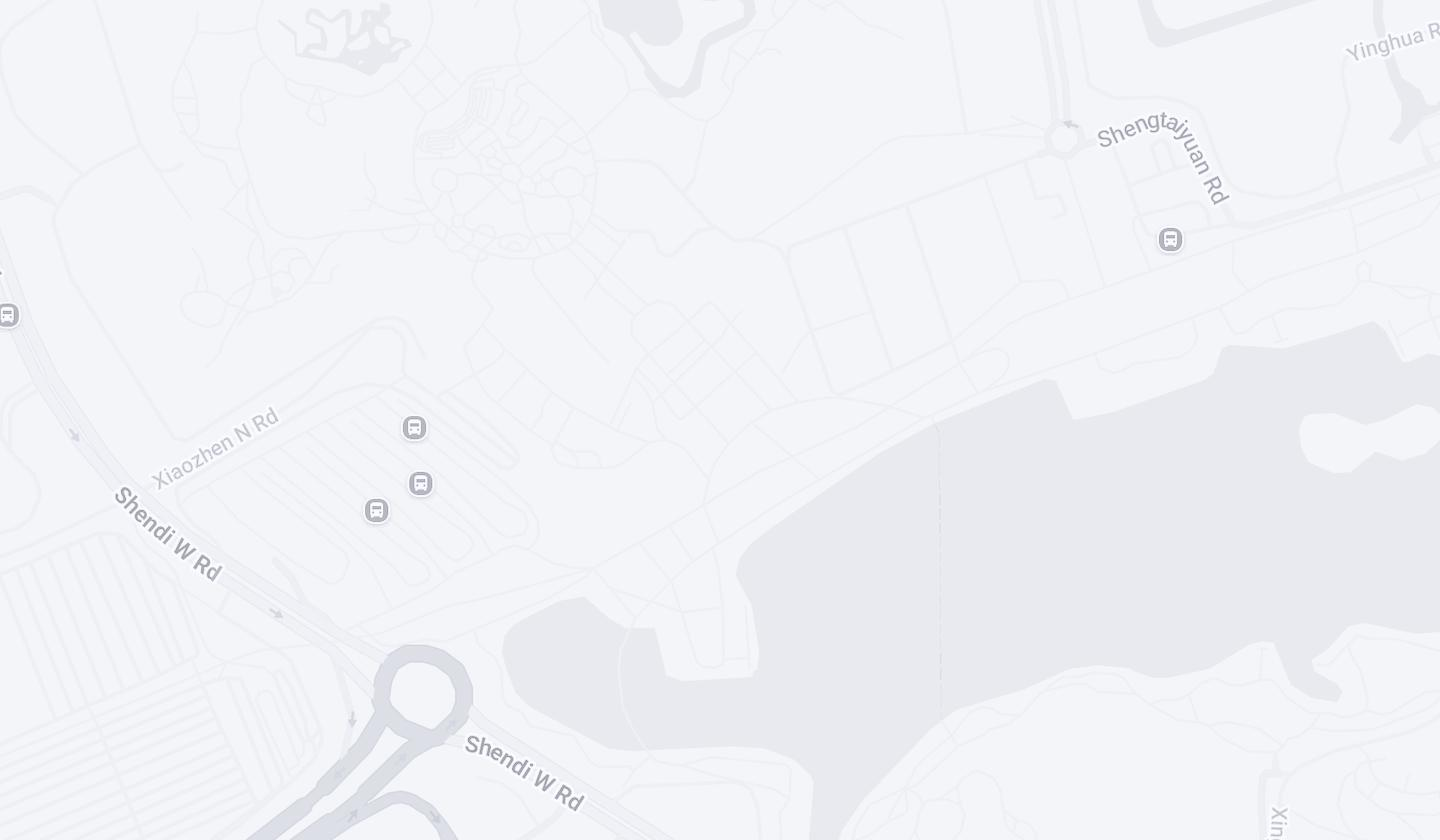
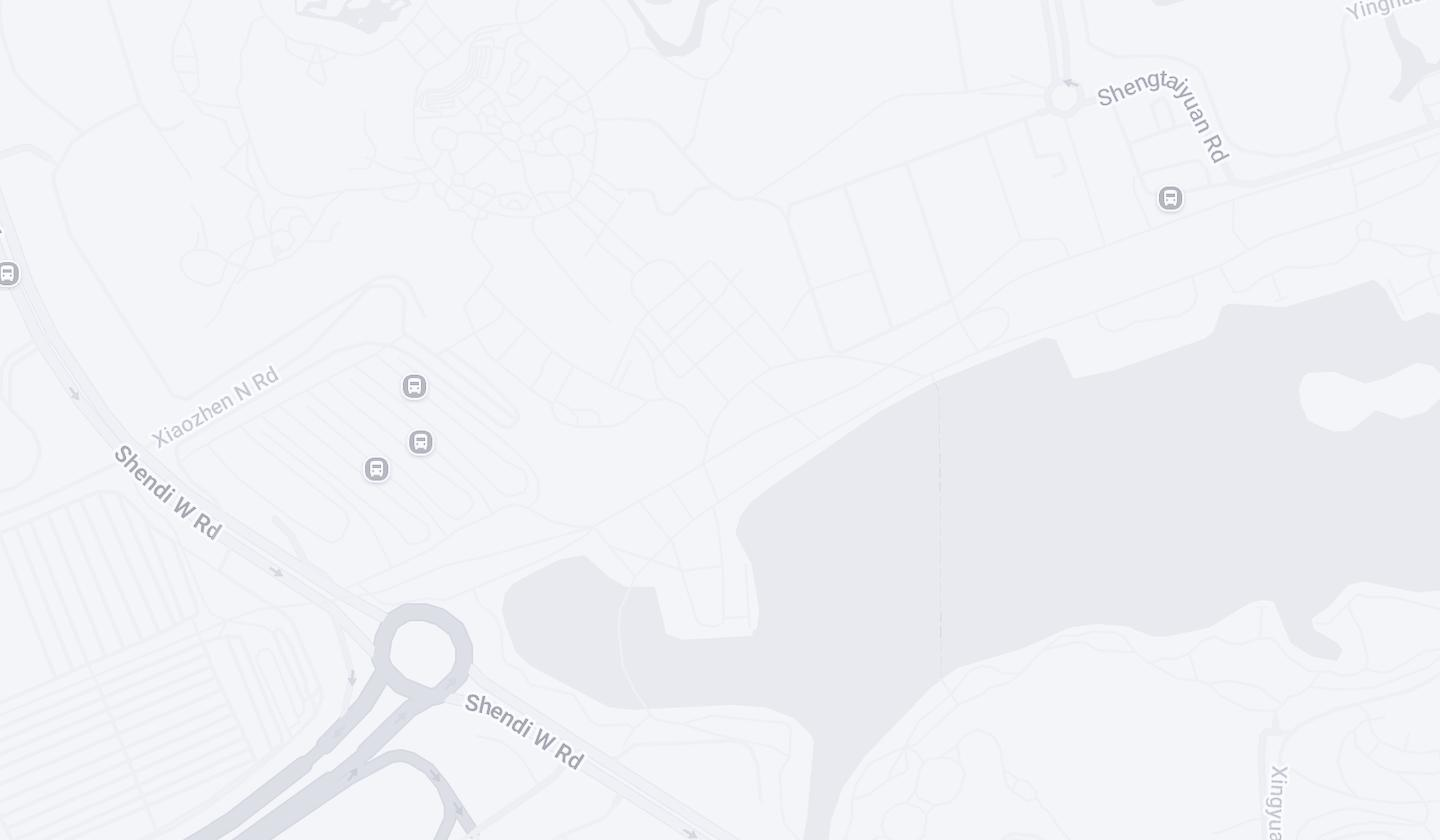
디즈니 야간 쇼 명당을 정원 호수 건너편(성 반영·한산)으로 이동, 고덕 핀·확대 지도·동선 지도 반영

diff --git a/data.js b/data.js
@@ -42,7 +42,7 @@ window.TRIP_DATA = (() => {
     disney: { name: '상하이 디즈니랜드', cn: '上海迪士尼乐园', cat: 'sight', area: '푸동', addr: '浦东新区川沙镇黄赵路310号', q: '上海迪士尼乐园', status: 'planned' },
     disney_pickup: { name: '디즈니 디디 승차 구역', cn: '上海迪士尼停车场小型客车上下客区', cat: 'move', area: '푸동', addr: '浦东新区申迪西路', hours: '07:00–22:00', q: '迪士尼停车场小型客车上下客区', status: 'planned', memo: '디디(网约车)는 여기서 타기' },
     disney_taxi: { name: '디즈니 택시 하차점', cn: '上海迪士尼度假区出租车下客点', cat: 'move', area: '푸동', q: '迪士尼度假区出租车下客点', status: 'planned', memo: '택시 승차 줄은 이 근처 · 고덕엔 승차장 표시 없음' },
-    disney_garden: { name: '이매지네이션 가든 (야간 쇼 명당)', cn: '奇想花园', cat: 'sight', area: '푸동', addr: '上海迪士尼乐园 内', q: '上海迪士尼 奇想花园', status: 'planned', memo: '성 정면 · 45–60분 전 자리' },
+    disney_garden: { name: '야간 쇼 명당 (호수 건너 성 반영)', cn: '奇想花园 湖南岸', cat: 'sight', area: '푸동', addr: '上海迪士尼乐园 内 奇想花园 남쪽 호숫가', q: '上海迪士尼 奇想花园', lat: 31.14180, lng: 121.66090, status: 'planned', memo: '성 정면 광장 대신 정원 호수 건너편 · 호수에 성과 불꽃이 비침 · 정면보다 한산 · 30분 전 · 미키 애비뉴 출구와 가까움' },
     disney_mickey: { name: '미키 애비뉴', cn: '米奇大街', cat: 'sight', area: '푸동', addr: '上海迪士尼乐园 内', q: '上海 米奇大街', status: 'planned', memo: '입구 쪽 메인 거리 · 인공 눈 · 쇼 보고 바로 나가기 좋음' },
     disney_castle: { name: '마법 동화 성', cn: '奇幻童话城堡', cat: 'sight', area: '푸동', addr: '上海迪士尼乐园 内', q: '奇幻童话城堡', status: 'planned', memo: '야간 쇼 무대' },
     disney_metro: { name: '지하철 디즈니역', cn: '迪士尼 地铁站', cat: 'move', area: '푸동', q: '迪士尼 地铁站 11号线', status: 'planned', memo: '11호선 · 막차 약 22:30' },
@@ -125,7 +125,7 @@ window.TRIP_DATA = (() => {
     barleone2: { name: 'Bar Leone 상하이', cn: 'Bar Leone 思南公馆', q: 'Bar Leone 思南公馆', meta: '复兴中路525-527号 · 18:00–01:00 · 워크인 · Nótelab에서 디디 5분' },
     d_pickup: { name: '디디 승차 구역', cn: '迪士尼停车场小型客车上下客区', q: '迪士尼停车场小型客车上下客区', meta: '申迪西路 · 디디(网约车)는 여기서 · 07:00–22:00' },
     d_taxi: { name: '택시 하차점 (승차 줄 근처)', cn: '迪士尼度假区出租车下客点', q: '迪士尼度假区出租车下客点', meta: '고덕엔 택시 승차장 표시가 없어 하차점으로 저장' },
-    d_garden: { name: '이매지네이션 가든 — 야간 쇼 명당', cn: '奇想花园', q: '上海迪士尼 奇想花园', meta: '성 정면 · 45–60분 전 자리 잡기' },
+    d_garden: { name: '야간 쇼 명당 — 호수 건너 성 반영', cn: '奇想花园 湖南岸', q: '上海迪士尼 奇想花园', lat: 31.14180, lng: 121.66090, g: false, meta: '정원 남쪽 호숫가에서 북서쪽 성 보기 · 물가에 바짝 붙어 폰을 낮게 · 정면보다 한산' },
     d_mickey: { name: '미키 애비뉴 — 쇼 보고 바로 나가기', cn: '米奇大街', q: '上海 米奇大街', meta: '출구 쪽 메인 거리라 쇼 직후 탈출이 빠름' },
     d_metro: { name: '지하철 11호선 디즈니역', cn: '迪士尼站', q: '迪士尼 地铁站 11号线', meta: '막차 약 22:30 · 디디가 안 잡힐 때' },
     siji_bund: { name: '사계민복 외백도교점', cn: '四季民福 外白渡桥店', q: '四季民福 外白渡桥', meta: '虹口 吴淞路130号 3층 · 와이탄 북쪽 끝, 호텔과 가까움 · 예약 불필요 후기' },
@@ -512,10 +512,10 @@ window.TRIP_DATA = (() => {
           detail: [
             { h: '운영시간·시즌', li: ['11월 운영시간 공식 미확인. 11/2부터 08:30–20:30이라는 보도 → 전날 앱 확인', '겨울 축제 Winter Frostival 기간(11/19~). 미키 크리스마스 의상은 12/1부터라 이번엔 스키 테마 겨울 의상', '미키 애비뉴 인공 눈, 산타 구피, 캐릭터 눈 조각상, 이매지네이션 가든 대형 트리'] },
             { h: '입장 전 준비', li: ['공식 앱 "上海迪士尼度假区" 한국에서 설치·가입, 티켓 연결', '여권 필수(실명 입장권). 가방 보안검색', '음식은 조리·보온이 필요한 것, 냄새 강한 것만 금지. 물·음료 가능. 주류·유리병 금지', '저녁엔 쌀쌀하니 한 겹 더, 앉을 깔개 있으면 퍼레이드 때 편함'] },
-            { h: '오후 입장 동선 (위 디즈니 안 지도 번호)', li: ['① 게이트 통과 즉시 앱에서 프리미어 액세스로 주토피아·트론 시간대 예약', '성 가운데를 지나 북쪽 주토피아(1) → 7난쟁이(2) → 동쪽 캐리비안(3) → 소어링(4) — 시계 방향으로 돌면 되돌아가지 않음', '급류 타기(5)는 젖으니 11월엔 건너뛰어도 됨 → 정원 덤보(6)에서 겨울 트리 사진', '서쪽으로 피터팬(7) → 렉스 레이서(9) → 트론(10, 예약 시간) → 버즈(11)', '폐장 45–60분 전 성 정면 쇼 명당(12) 자리 잡기 → 끝나면 미키 애비뉴로 바로 출구', '따로 타도 되면 싱글 라이더(TRON, Pirates, Soaring, Roaring Rapids, 7 Dwarfs)'] },
+            { h: '오후 입장 동선 (위 디즈니 안 지도 번호)', li: ['① 게이트 통과 즉시 앱에서 프리미어 액세스로 주토피아·트론 시간대 예약', '성 가운데를 지나 북쪽 주토피아(1) → 7난쟁이(2) → 동쪽 캐리비안(3) → 소어링(4) — 시계 방향으로 돌면 되돌아가지 않음', '급류 타기(5)는 젖으니 11월엔 건너뛰어도 됨 → 정원 덤보(6)에서 겨울 트리 사진', '서쪽으로 피터팬(7) → 렉스 레이서(9) → 트론(10, 예약 시간) → 버즈(11)', '폐장 30–45분 전 정원 호수 건너편 쇼 명당(12) 자리 잡기 → 끝나면 바로 옆 미키 애비뉴로 출구', '따로 타도 되면 싱글 라이더(TRON, Pirates, Soaring, Roaring Rapids, 7 Dwarfs)'] },
             { h: '프리미어 액세스', li: ['앱 › Make Plans › Buy Disney Premier Access. 입장 후에만 구매, 현장 부스 없음', '가격 변동제: 단품 약 ¥90–200+, 세트 약 ¥300–900+', '야간 쇼·퍼레이드 관람석도 판매. 인기 시간대는 빨리 매진', '결제는 알리페이 연결이 가장 무난'] },
             { h: '퍼레이드', li: ['낮 퍼레이드 Mickey’s Storybook Express(보통 하루 2회) + 겨울 한정 Winter Magic Cavalcade', '시간은 당일 앱. 30분 전부터 자리 잡기', '오후 입장이면 마지막 회차를 노리기'] },
-            { h: '야간 쇼·불꽃 명당', li: ['ILLUMINATE!(성 프로젝션·불꽃·분수) 또는 겨울 쇼 A Celebration of Disney Winter Frostival', '폐장 30–60분 전 시작. 날씨·대기질에 따라 불꽃 없이 하거나 취소될 수 있음', '명당: 이매지네이션 가든(奇想花园, 성 정면) — 고덕에 저장. 바로 나갈 거면 출구 쪽 미키 애비뉴(米奇大街)', '정면 좋은 자리는 45–60분 전부터. 관람석 프리미어 액세스도 있음'] },
+            { h: '야간 쇼·불꽃 명당', li: ['ILLUMINATE!(성 프로젝션·불꽃·분수) 또는 겨울 쇼 A Celebration of Disney Winter Frostival', '폐장 30–60분 전 시작. 날씨·대기질에 따라 불꽃 없이 하거나 취소될 수 있음', '우리 자리: 성 정면 광장이 아니라 이매지네이션 가든(奇想花园) 남쪽 호숫가 — 호수 건너 북서쪽으로 성이 보이고, 성·불꽃이 물에 비침 · 고덕에 핀', '물가에 바짝 붙어 폰을 낮게 들면 반영이 크게 잡힘(성 위쪽이 발 앞 물에 비침)', '정면 광장보다 사람이 적고 30–45분 전에 가도 됨(후기 기준) · 미키 애비뉴 출구와 가까워 끝나고 바로 나가기 좋음', '프로젝션 영상은 정면보다 비스듬히 보임 · 영상까지 제대로 보려면 정면 광장(45–60분 전), 관람석 프리미어 액세스도 있음'] },
             { h: '겨울 한정 먹거리·굿즈', li: ['미키 탕후루, 크리스마스 쿠키·머핀, 핫초코, 와규 치즈버거 춘권(신메뉴)', '2026 Mickey and Friends Ski Party 컬렉션, Duffy Christmas Wishes 컬렉션'] },
             { h: '나갈 때 디디 잡기', li: ['쇼 끝난 직후는 할증·배차 지연 심함(최대 ¥300 후기). 피날레 전에 나오거나 디즈니타운에서 30–60분 쉬었다 호출', '디디 승차: 고덕에 저장한 ‘上海迪士尼停车场小型客车上下客区’(申迪西路, 주차장 승하차 구역)에서. 디디 앱 목적지 입력 때 출발지를 이곳으로 지정', '택시: 고덕엔 승차장 표시가 없고 ‘出租车下客点’ 근처에 대기 줄이 생김. 현장 안내판을 따르기', '회화 탭 "디디 타는 곳이 어디예요?"를 직원에게 보여주기', '지하철: 11호선 迪士尼역 막차 약 22:30 → 환승해서 위위안, 40–60분'] },
           ],
@@ -832,13 +832,13 @@ window.TRIP_DATA = (() => {
       { n: 9, x: 74, y: 184, s: 'l', name: '렉스 레이서', en: 'Rex’s Racer (토이 스토리 랜드)', tip: '' },
       { n: 10, x: 98, y: 240, s: 'r', name: '트론', en: 'TRON Lightcycle Power Run', tip: '프리미어 액세스 시간대에 맞춰' },
       { n: 11, x: 150, y: 262, s: 'r', name: '버즈 라이트이어', en: 'Buzz Lightyear Planet Rescue', tip: '' },
-      { n: 12, x: 164, y: 192, s: 'l', name: '야간 쇼 명당', en: 'ILLUMINATE! · 성 정면 이매지네이션 가든', tip: '45–60분 전 자리 · 끝나면 미키 애비뉴로 바로 출구' },
+      { n: 12, x: 226, y: 248, s: 'r', name: '야간 쇼 명당', en: 'ILLUMINATE! · 정원 호수 건너 성 반영', tip: '30–45분 전 · 물가에 붙어 폰 낮게 · 끝나면 미키 애비뉴로 바로 출구' },
     ],
     // 동선 선(위 순서대로 지나는 점). 입구 → 성 가운데를 지나 주토피아부터
     route: [[304, 300], [250, 262], [214, 240], [190, 212], [182, 176], [178, 140], [176, 104], [172, 60], [186, 26],
       [214, 48], [214, 86], [236, 86], [250, 70], [262, 54], [306, 60], [336, 94], [346, 140], [312, 184],
       [272, 198], [232, 206], [208, 188], [176, 186], [146, 170], [126, 140], [118, 106], [112, 78], [82, 84], [60, 120],
-      [56, 154], [74, 184], [80, 214], [98, 240], [120, 258], [150, 262], [166, 238], [164, 192]],
+      [56, 154], [74, 184], [80, 214], [98, 240], [120, 258], [150, 262], [188, 258], [226, 248]],
   };
 
   return { TRIP, PLACES, PARK, DAYS, INFO, CHECKLIST, PHRASES, EXTRA, CREDITS, WEB_CREDITS };

diff --git a/maps.js b/maps.js
@@ -1,2 +1,2 @@
 /* tools/build_maps.py 가 만든 파일. 직접 고치지 말고 스크립트를 다시 돌리기. */
-window.TRIP_MAPS = {"0": {"img": "img/map-day1.jpg", "w": 360, "h": 210, "proj": {"z": 14, "left": 3511750.204, "top": 1713591.176, "f": 0.366061}, "pins": [{"p": "hotel", "i": 6, "n": 0, "x": 89.27, "y": 39.55, "dx": 88.11, "dy": 39.54}, {"p": "sijiminfu", "i": 1, "n": 1, "x": 47.44, "y": 44.08}, {"p": "dongliang", "i": 2, "n": 2, "x": 7.31, "y": 79.33}, {"p": "columbia", "i": 3, "n": 3, "x": 13.07, "y": 86.4}, {"p": "yuyuanlu", "i": 4, "n": 4, "x": 16.58, "y": 64.53}, {"p": "rockbund", "i": 5, "n": 5, "x": 84.8, "y": 12.61}, {"p": "libaixie", "i": 7, "n": 6, "x": 92.27, "y": 38.07, "dx": 93.31, "dy": 37.56}, {"p": "bund", "i": 8, "n": 7, "x": 88.46, "y": 16.29}, {"p": "yuyuan", "i": 9, "n": 8, "x": 90.03, "y": 47.36}], "car": 14.9, "walk": 7.6}, "1": {"img": "img/map-day2.jpg", "w": 360, "h": 299, "proj": {"z": 14, "left": 3511900.013, "top": 1713487.43, "f": 0.379376}, "pins": [{"p": "hotel", "i": 15, "n": 0, "x": 76.73, "y": 41.95}, {"p": "zhangshifu", "i": 0, "n": 1, "x": 37.28, "y": 29.47}, {"p": "zhangyuan", "i": 1, "n": 2, "x": 38.43, "y": 44.82}, {"p": "qiansu", "i": 2, "n": 3, "x": 20.51, "y": 8.53, "dx": 18.56, "dy": 6.9}, {"p": "charlietown", "i": 3, "n": 4, "x": 20.94, "y": 8.89, "dx": 22.89, "dy": 10.52}, {"p": "labelhood", "i": 4, "n": 5, "x": 28.1, "y": 62.04}, {"p": "zuoting", "i": 5, "n": 6, "x": 55.06, "y": 32.7, "dx": 52.25, "dy": 32.98}, {"p": "iccf", "i": 6, "n": 7, "x": 25.53, "y": 77.71}, {"p": "lemaire", "i": 7, "n": 8, "x": 14.1, "y": 71.79, "dx": 13.04, "dy": 71.0}, {"p": "onheon", "i": 8, "n": 9, "x": 16.46, "y": 73.55, "dx": 17.52, "dy": 74.34}, {"p": "psa", "i": 9, "n": 10, "x": 85.36, "y": 91.47}, {"p": "chiikawa", "i": 10, "n": 11, "x": 71.25, "y": 27.41}, {"p": "miniso", "i": 11, "n": 12, "x": 64.35, "y": 31.01, "dx": 67.31, "dy": 31.09}, {"p": "toptoy", "i": 12, "n": 13, "x": 62.46, "y": 31.28, "dx": 62.07, "dy": 30.37}, {"p": "miniso2", "i": 13, "n": 14, "x": 59.72, "y": 31.9, "dx": 56.81, "dy": 29.78}, {"p": "henjiu", "i": 14, "n": 15, "x": 56.45, "y": 32.96, "dx": 59.36, "dy": 35.83}, {"p": "notelab", "i": 16, "n": 16, "x": 34.75, "y": 55.69}], "car": 42.3, "walk": 4.0}, "2": {"img": "img/map-day3.jpg", "w": 360, "h": 210, "proj": {"z": 12, "left": 878003.103, "top": 428383.931, "f": 0.479612}, "pins": [{"p": "hotel", "i": 5, "n": 0, "x": 20.51, "y": 16.12}, {"p": "huaihai", "i": 0, "n": 1, "x": 11.63, "y": 23.01}, {"p": "renheguan", "i": 1, "n": 2, "x": 7.71, "y": 37.84}, {"p": "disney", "i": 3, "n": 3, "x": 85.15, "y": 83.21}], "car": 65.6, "walk": 0, "zoom": {"img": "img/map-disney.jpg", "w": 360, "h": 210, "proj": {"z": 16, "left": 14058122.75, "top": 6859915.227, "f": 0.450611}, "title": "디즈니 확대: 쇼 명당·승차 위치", "goto": 3, "pins": [{"p": "disney_garden", "label": "쇼 명당", "ic": "star", "cat": "sight", "x": 35.01, "y": 21.02}, {"p": "disney_mickey", "label": "미키 애비뉴", "ic": "directions_walk", "cat": "sight", "x": 42.18, "y": 33.41}, {"p": "disney_pickup", "label": "디디 승차", "ic": "local_taxi", "cat": "castle", "x": 20.95, "y": 78.98, "dx": 20.96, "dy": 80.02}, {"p": "disney_taxi", "label": "택시 하차점", "ic": "local_taxi", "cat": "move", "x": 20.83, "y": 68.69, "dx": 20.82, "dy": 67.65}, {"p": "disney_metro", "label": "11호선 디즈니역", "ic": "directions_subway", "cat": "move", "x": 79.17, "y": 36.21}], "walk": 0}}};
+window.TRIP_MAPS = {"0": {"img": "img/map-day1.jpg", "w": 360, "h": 210, "proj": {"z": 14, "left": 3511750.204, "top": 1713591.176, "f": 0.366061}, "pins": [{"p": "hotel", "i": 6, "n": 0, "x": 89.27, "y": 39.55, "dx": 88.11, "dy": 39.54}, {"p": "sijiminfu", "i": 1, "n": 1, "x": 47.44, "y": 44.08}, {"p": "dongliang", "i": 2, "n": 2, "x": 7.31, "y": 79.33}, {"p": "columbia", "i": 3, "n": 3, "x": 13.07, "y": 86.4}, {"p": "yuyuanlu", "i": 4, "n": 4, "x": 16.58, "y": 64.53}, {"p": "rockbund", "i": 5, "n": 5, "x": 84.8, "y": 12.61}, {"p": "libaixie", "i": 7, "n": 6, "x": 92.27, "y": 38.07, "dx": 93.31, "dy": 37.56}, {"p": "bund", "i": 8, "n": 7, "x": 88.46, "y": 16.29}, {"p": "yuyuan", "i": 9, "n": 8, "x": 90.03, "y": 47.36}], "car": 14.9, "walk": 7.6}, "1": {"img": "img/map-day2.jpg", "w": 360, "h": 299, "proj": {"z": 14, "left": 3511900.013, "top": 1713487.43, "f": 0.379376}, "pins": [{"p": "hotel", "i": 15, "n": 0, "x": 76.73, "y": 41.95}, {"p": "zhangshifu", "i": 0, "n": 1, "x": 37.28, "y": 29.47}, {"p": "zhangyuan", "i": 1, "n": 2, "x": 38.43, "y": 44.82}, {"p": "qiansu", "i": 2, "n": 3, "x": 20.51, "y": 8.53, "dx": 18.56, "dy": 6.9}, {"p": "charlietown", "i": 3, "n": 4, "x": 20.94, "y": 8.89, "dx": 22.89, "dy": 10.52}, {"p": "labelhood", "i": 4, "n": 5, "x": 28.1, "y": 62.04}, {"p": "zuoting", "i": 5, "n": 6, "x": 55.06, "y": 32.7, "dx": 52.25, "dy": 32.98}, {"p": "iccf", "i": 6, "n": 7, "x": 25.53, "y": 77.71}, {"p": "lemaire", "i": 7, "n": 8, "x": 14.1, "y": 71.79, "dx": 13.04, "dy": 71.0}, {"p": "onheon", "i": 8, "n": 9, "x": 16.46, "y": 73.55, "dx": 17.52, "dy": 74.34}, {"p": "psa", "i": 9, "n": 10, "x": 85.36, "y": 91.47}, {"p": "chiikawa", "i": 10, "n": 11, "x": 71.25, "y": 27.41}, {"p": "miniso", "i": 11, "n": 12, "x": 64.35, "y": 31.01, "dx": 67.31, "dy": 31.09}, {"p": "toptoy", "i": 12, "n": 13, "x": 62.46, "y": 31.28, "dx": 62.07, "dy": 30.37}, {"p": "miniso2", "i": 13, "n": 14, "x": 59.72, "y": 31.9, "dx": 56.81, "dy": 29.78}, {"p": "henjiu", "i": 14, "n": 15, "x": 56.45, "y": 32.96, "dx": 59.36, "dy": 35.83}, {"p": "notelab", "i": 16, "n": 16, "x": 34.75, "y": 55.69}], "car": 42.3, "walk": 4.0}, "2": {"img": "img/map-day3.jpg", "w": 360, "h": 210, "proj": {"z": 12, "left": 878003.103, "top": 428383.931, "f": 0.479612}, "pins": [{"p": "hotel", "i": 5, "n": 0, "x": 20.51, "y": 16.12}, {"p": "huaihai", "i": 0, "n": 1, "x": 11.63, "y": 23.01}, {"p": "renheguan", "i": 1, "n": 2, "x": 7.71, "y": 37.84}, {"p": "disney", "i": 3, "n": 3, "x": 85.15, "y": 83.21}], "car": 65.6, "walk": 0, "zoom": {"img": "img/map-disney.jpg", "w": 360, "h": 210, "proj": {"z": 16, "left": 14058122.75, "top": 6859938.368, "f": 0.450611}, "title": "디즈니 확대: 쇼 명당·승차 위치", "goto": 3, "pins": [{"p": "disney_garden", "label": "쇼 명당", "ic": "star", "cat": "sight", "x": 36.82, "y": 25.99}, {"p": "disney_pickup", "label": "디디 승차", "ic": "local_taxi", "cat": "castle", "x": 20.95, "y": 74.01, "dx": 20.96, "dy": 75.06}, {"p": "disney_taxi", "label": "택시 하차점", "ic": "local_taxi", "cat": "move", "x": 20.83, "y": 63.73, "dx": 20.82, "dy": 62.68}, {"p": "disney_metro", "label": "11호선 디즈니역", "ic": "directions_subway", "cat": "move", "x": 79.17, "y": 31.25}], "walk": 0}}};

diff --git a/tools/make_note.js b/tools/make_note.js
@@ -10,7 +10,7 @@ h+="<div><h2>✅ 미리 할 것</h2></div>"+li([
 "온라인 입국신고(NIA 12367 앱·알리페이) → QR 캡처","알리페이 해외카드 연결·소액 결제 테스트, 디디 준비","런허관 본점 11/23 11:00 예약 확정 ✔ — 확정 화면 캡처","르메르 위챗 예약 (11/22 15:30) — 매장 15km 안 규칙이면 11/21 도착 후","디즈니 공식 앱(上海迪士尼度假区) 설치, 전날 운영시간 확인","사계민복·리바이시에·헌저우이치엔·좌정우원(11/22): 당일 원격 줄서기(따종띠엔핑·위챗)","보조배터리 3C 마크·1인 2개 · 멀티어댑터 · 소액 현금 · 로밍/eSIM"])+BL;
 h+="<div><h2>🛵 배달</h2></div>"+li([
 "알리페이 → \"饿了么\" / 위챗 → \"美团外卖\" 미니프로그램 (우상단 ··· 번역)","주소: 上海市黄浦区人民路388号 上海外滩智选假日酒店 + 객실번호 · 로비에서 수령 · 막히면 프런트에 대리 주문","과일: 鲜切水果 · 水果捞 · 水果拼盘 — 草莓, 阳光玫瑰, 芒果, 砂糖橘 / 百果园 · 盒马","밀크티: 茉莉奶白(苹果茉莉奶白+芝士奶盖), 喜茶(多肉葡萄·芝芝莓莓), 霸王茶姬(伯牙绝弦) · 옵션 半糖/少冰/热","양즈깐루: 黄氏壹品汇·水牛奶甜品(瞿溪路店, 새벽 2시까지) · 满记甜品 · 杨枝甘露/双皮奶/姜撞奶","털게(11/23 밤): 熟大闸蟹/现蒸大闸蟹, 11월 하순은 公蟹(수컷, 배딱지 뾰족)"])+BL;
-h+="<div><h2>🎢 디즈니 요령</h2></div>"+li(["여권 필수 · 입장 즉시 앱에서 프리미어 액세스(尊享卡) TRON·주토피아","해 질 무렵 퍼레이드 → 폐장 1~2시간 전 인기 어트랙션 → 야간 쇼(성 정면 이매지네이션 가든 奇想花园, 45~60분 전 자리)","디디 승차: 上海迪士尼停车场小型客车上下客区(申迪西路) · 쇼 끝나기 직전에 호출 · 11호선 디즈니역 막차 약 22:30","고덕 즐겨찾기에 奇想花园·米奇大街·승차 구역·디즈니역 저장"])+BL;
+h+="<div><h2>🎢 디즈니 요령</h2></div>"+li(["여권 필수 · 입장 즉시 앱에서 프리미어 액세스(尊享卡) TRON·주토피아","해 질 무렵 퍼레이드 → 폐장 1~2시간 전 인기 어트랙션 → 야간 쇼(정원 奇想花园 남쪽 호숫가 — 호수에 성 반영·한산, 30~45분 전 자리)","디디 승차: 上海迪士尼停车场小型客车上下客区(申迪西路) · 쇼 끝나기 직전에 호출 · 11호선 디즈니역 막차 약 22:30","고덕 즐겨찾기에 奇想花园·米奇大街·승차 구역·디즈니역 저장"])+BL;
 h+="<div><h2>📅 일정</h2></div>"+BL;
 for(const d of DAYS){
   h+=`<div><h3>${+d.date.slice(5,7)}/${+d.date.slice(8)}(${d.w}) ${e(d.title)}</h3></div>`;

diff --git a/app.js b/app.js
@@ -216,7 +216,7 @@
       'M248 124 A48 64 0 1 1 248 124.1',                     // 보물섬·어드벤처 아일
       'M218 160 L272 198', 'M216 118 L246 78', 'M80 214 L132 214 L176 186',
     ].map((r) => `<path d="${r}"/>`).join('');
-    const water = '<ellipse cx="116" cy="124" rx="22" ry="11"/><path d="M276 92 C300 84 318 104 314 126 C312 150 296 166 280 156 C266 148 262 128 270 114 C262 104 266 96 276 92Z"/><ellipse cx="224" cy="224" rx="13" ry="6"/>';
+    const water = '<ellipse cx="116" cy="124" rx="22" ry="11"/><path d="M276 92 C300 84 318 104 314 126 C312 150 296 166 280 156 C266 148 262 128 270 114 C262 104 266 96 276 92Z"/><ellipse cx="210" cy="228" rx="22" ry="7"/>';
     const pins = PARK.stops.map((s) => {
       return `<button class="dmap-pin c-castle${s.opt ? ' is-opt' : ''}" style="left:${(s.x / W * 100).toFixed(2)}%;top:${(s.y / H * 100).toFixed(2)}%" ${vi >= 0 ? `data-goto="r${dIdx}-${vi}"` : 'disabled'} aria-label="${s.n}. ${esc(s.name)}">${s.n}</button>`
         + `<span class="pk-lbl is-${s.s || 'r'}${s.opt ? ' is-opt' : ''}" style="left:${(s.x / W * 100).toFixed(2)}%;top:${(s.y / H * 100).toFixed(2)}%">${esc(s.name)}</span>`;

diff --git a/sw.js b/sw.js
@@ -1,5 +1,5 @@
 // 오프라인용: 네트워크 우선, 실패하면 캐시. 데이터 수정이 바로 반영되도록.
-const CACHE = 'sh26-v46';
+const CACHE = 'sh26-v47';
 const ASSETS = ['./', 'index.html', 'styles.css', 'app.js', 'data.js', 'maps.js', 'img/map-day1.jpg', 'img/map-day2.jpg', 'img/map-day3.jpg', 'img/map-disney.jpg', 'gaode.html', 'favicon.png', 'mascot.png', 'manifest.webmanifest'];
 self.addEventListener('install', (e) => { e.waitUntil(caches.open(CACHE).then((c) => c.addAll(ASSETS)).then(() => self.skipWaiting())); });
 self.addEventListener('activate', (e) => { e.waitUntil(caches.keys().then((ks) => Promise.all(ks.filter((k) => k !== CACHE).map((k) => caches.delete(k)))).then(() => self.clients.claim())); });

diff --git a/tools/build_maps.py b/tools/build_maps.py
@@ -54,8 +54,8 @@ ZOOMS = {
     2: {  # 디즈니 날
         'key': 'disney', 'title': '디즈니 확대: 쇼 명당·승차 위치', 'goto': 'disney',
         'points': [
-            ('disney_garden', '쇼 명당', 'star', 'sight', (31.14265, 121.66059)),       # 奇想花园 (OSM)
-            ('disney_mickey', '미키 애비뉴', 'directions_walk', 'sight', (31.14159, 121.66182)),  # 米奇大街 (구글)
+            ('disney_garden', '쇼 명당', 'star', 'sight', (31.14180, 121.66090)),       # 奇想花园 남쪽 호숫가: 호수 건너 성 반영 (OSM 호수·길 기준)
+            # 미키 애비뉴는 쇼 명당 바로 옆이라 핀 생략(겹침)
             ('disney_pickup', '디디 승차', 'local_taxi', 'castle', (31.13769, 121.65818)),  # 停车场小型客车上下客区: 고덕 화면 기준, 申迪西路 로터리 서북쪽
             ('disney_taxi', '택시 하차점', 'local_taxi', 'move', (31.13857, 121.65816)),     # 出租车下客点: 고덕 화면 기준, 승차 구역 바로 북쪽
             ('disney_metro', '11호선 디즈니역', 'directions_subway', 'move', (31.14135, 121.66816)),  # 구글
